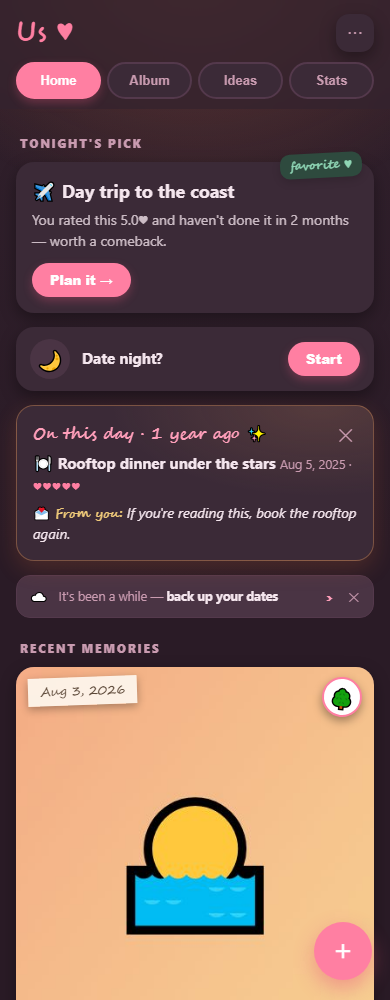
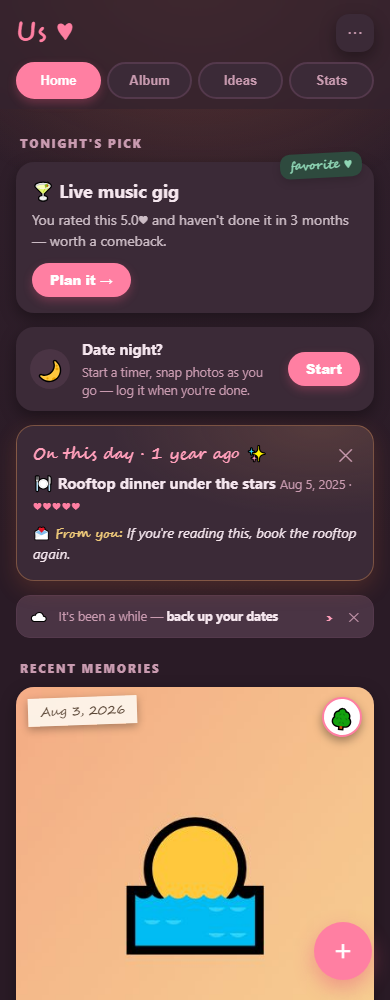
Home play-test round: five UX fixes
- Closing the log sheet mid-Date-Night now confirms and cleans up
  orphaned session photos instead of silently destroying the session
- Backup banner clears after a successful export
- Date-night card explains itself; fresh session chip reads 'just started'
- Tonight's Pick 'Plan it' scrolls to and flashes the matching Ideas card
- On-this-day dismissal persists for the calendar day

Found by an agent play-test of the Home tab. logic 39/39, smoke (incl.
2 new discard-confirm checks) pass.

Changed region(s): [[0.0308, 0.341, 0.9846, 0.744], [0.3077, 0.775, 0.6769, 0.961], [0.0923, 0.155, 0.6154, 0.217]]

diff --git a/js/ui.js b/js/ui.js
@@ -44,6 +44,7 @@ const DN_MAX_MIN = 720; // 12h auto-expire cap
 export async function init() {
   dates = await db.getAllDates();
   activeDate = await db.getSetting("activeDate", null);
+  memoryDismissed = (await db.getSetting("memoryDismissed", null)) === todayISO();
   wireChrome();
   wireIdle();
   updateFab();
@@ -476,7 +477,7 @@ function renderDnBanner() {
   host.innerHTML = `
     <section class="dn-banner" id="dn-banner-body">
       <span class="moon">🌙</span>
-      <div class="txt"><b>Date night</b><div class="sub">${fmtDuration(elapsedMin)} · ${n} photo${n === 1 ? "" : "s"}</div></div>
+      <div class="txt"><b>Date night</b><div class="sub">${elapsedMin < 1 ? "just started" : fmtDuration(elapsedMin)} · ${n} photo${n === 1 ? "" : "s"}</div></div>
       <button class="end" id="dn-end">End</button>
     </section>`;
   host.querySelector("#dn-banner-body").addEventListener("click", () => document.getElementById("dnCameraInput").click());
@@ -561,7 +562,7 @@ function renderHome() {
     ${!activeDate ? `
     <section class="card dn-invite">
       <div class="moon">🌙</div>
-      <div class="txt"><h3>Date night?</h3></div>
+      <div class="txt"><h3>Date night?</h3><div class="sub">Start a timer, snap photos as you go — log it when you're done.</div></div>
       <button class="mini-btn" id="dn-start">Start</button>
     </section>` : ""}
     ${memoryCard}
@@ -575,9 +576,9 @@ function renderHome() {
     <h3 class="section-title">Recent memories</h3>
     <div id="date-list"></div>
   `;
-  bind("home-plan", "click", () => show("suggest"));
+  bind("home-plan", "click", () => planIt(top?.title));
   bind("dn-start", "click", onDnStart);
-  bind("memory-dismiss", "click", () => { memoryDismissed = true; renderHome(); });
+  bind("memory-dismiss", "click", async () => { memoryDismissed = true; await db.setSetting("memoryDismissed", todayISO()); renderHome(); });
   bind("backup-banner", "click", onExport);
   bind("backup-dismiss", "click", async e => {
     e.stopPropagation();
@@ -588,6 +589,16 @@ function renderHome() {
   renderList();
 }
 
+function planIt(title) {
+  show("suggest");
+  if (!title) return;
+  const card = viewEl().querySelector(`[data-norm-title="${CSS.escape(normTitle(title))}"]`);
+  if (!card) return;
+  card.scrollIntoView({ behavior: "smooth", block: "center" });
+  card.classList.add("flash");
+  setTimeout(() => card.classList.remove("flash"), 1500);
+}
+
 // ---------- log sheet (opened from the ＋ button) ----------
 function openLogSheet() {
   document.getElementById("logSheet").classList.remove("hidden");
@@ -595,7 +606,12 @@ function openLogSheet() {
   renderLog();
 }
 
-function closeLogSheet() {
+async function closeLogSheet() {
+  if (draft.durationMin != null && !editingId) {
+    if (!confirm("Discard tonight's session? Any photos you took will be deleted.")) return;
+    const referenced = new Set(dates.flatMap(e => e.photos || []));
+    for (const id of draft.photos) if (!referenced.has(id)) await db.deletePhoto(id);
+  }
   document.getElementById("logSheet").classList.add("hidden");
   document.body.style.overflow = "";
   resetDraft();
@@ -1642,7 +1658,7 @@ function renderSugCards(results) {
     const isSaved = saved.has(normTitle(r.title));
     const reason = coldStart ? (r.desc || r.reason) : shortReason(r);
     return `
-    <div class="card sug-card ${r.kind}">
+    <div class="card sug-card ${r.kind}" data-norm-title="${escAttr(normTitle(r.title))}">
       ${isSaved ? `<span class="sticker-tag butter">saved ♡</span>` : ""}
       <div class="sug-body">
         <div class="sug-head">
@@ -1793,6 +1809,8 @@ async function onExport() {
   URL.revokeObjectURL(a.href);
   await db.setSetting("lastExportAt", Date.now());
   document.getElementById("sheet").classList.add("hidden");
+  showBackupBanner = false;
+  if (currentTab === "home") renderHome();
   toast("Backup downloaded");
 }
 

diff --git a/css/styles.css b/css/styles.css
@@ -240,6 +240,7 @@ input:focus, textarea:focus, select:focus { outline: 2px solid var(--accent); bo
 }
 .dn-invite .txt { flex: 1; min-width: 0; }
 .dn-invite h3 { margin: 0; font-size: 15px; }
+.dn-invite .sub { margin: 2px 0 0; font-size: 12.5px; color: var(--muted); }
 .dn-invite .mini-btn { flex: none; margin-top: 0; }
 
 .dn-banner {
@@ -283,6 +284,11 @@ input:focus, textarea:focus, select:focus { outline: 2px solid var(--accent); bo
 .slider-row input[type=range] { flex: 1; accent-color: var(--accent); }
 .slider-ends { display: flex; justify-content: space-between; font-size: 12px; font-weight: 600; color: var(--muted); }
 .sug-card { position: relative; display: flex; align-items: center; gap: 10px; padding: 12px 14px; } /* New/Favorite lives in the .tag pill; no side border */
+.sug-card.flash { animation: sug-flash 1.5s ease-out; }
+@keyframes sug-flash {
+  0% { box-shadow: 0 0 0 3px var(--accent); }
+  100% { box-shadow: 0 0 0 0 transparent; }
+}
 .sug-card .sug-body { flex: 1; min-width: 0; }
 .sug-head { display: flex; justify-content: space-between; align-items: baseline; gap: 8px; }
 .sug-head h3 { margin: 0; font-size: 15px; min-width: 0; }
